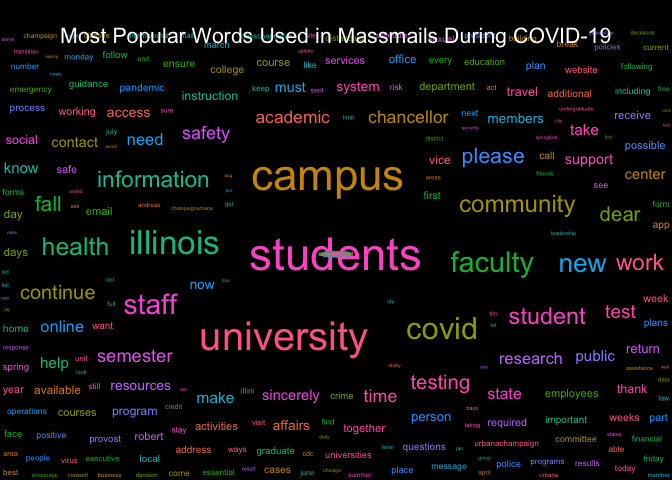
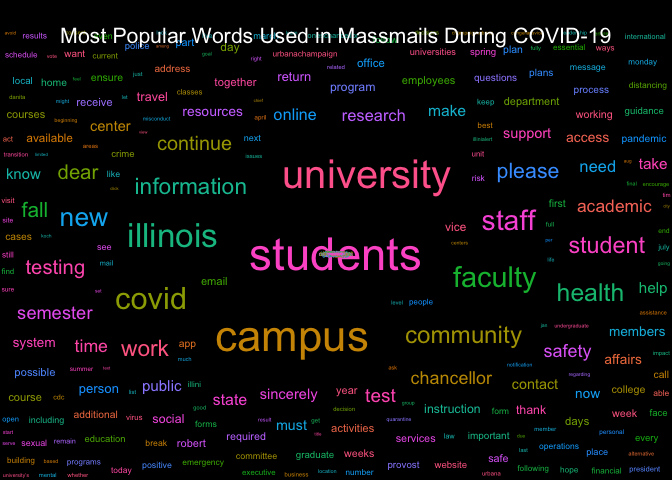
Re-build README.Rmd and Graphs

Changed region(s): [[0.0, 0.0625, 1.0, 1.0], [0.9375, 0.0625, 1.0, 0.125], [0.5625, 0.75, 0.5938, 0.7812]]

diff --git a/README.md b/README.md
@@ -17,7 +17,7 @@ The archive may be viewed here:
 
 <https://massmail.illinois.edu/massmailArchive>
 
-Data has **1256** observations and **7** variables:
+Data has **1257** observations and **7** variables:
 
   - `datetime`: Date and time when the email was sent in the form of
     `YYYY-MM-DD HMS` with either CDT or CST.
@@ -205,15 +205,15 @@ head(most_popular_words, 10) %>%
 
 | word        | freq |
 | :---------- | ---: |
-| students    |  739 |
+| students    |  741 |
 | campus      |  683 |
-| university  |  670 |
-| illinois    |  426 |
-| faculty     |  372 |
+| university  |  672 |
+| illinois    |  427 |
+| faculty     |  374 |
 | covid       |  362 |
-| community   |  347 |
+| community   |  349 |
 | information |  308 |
-| staff       |  298 |
+| staff       |  300 |
 | health      |  282 |
 
 #### Wordcloud
